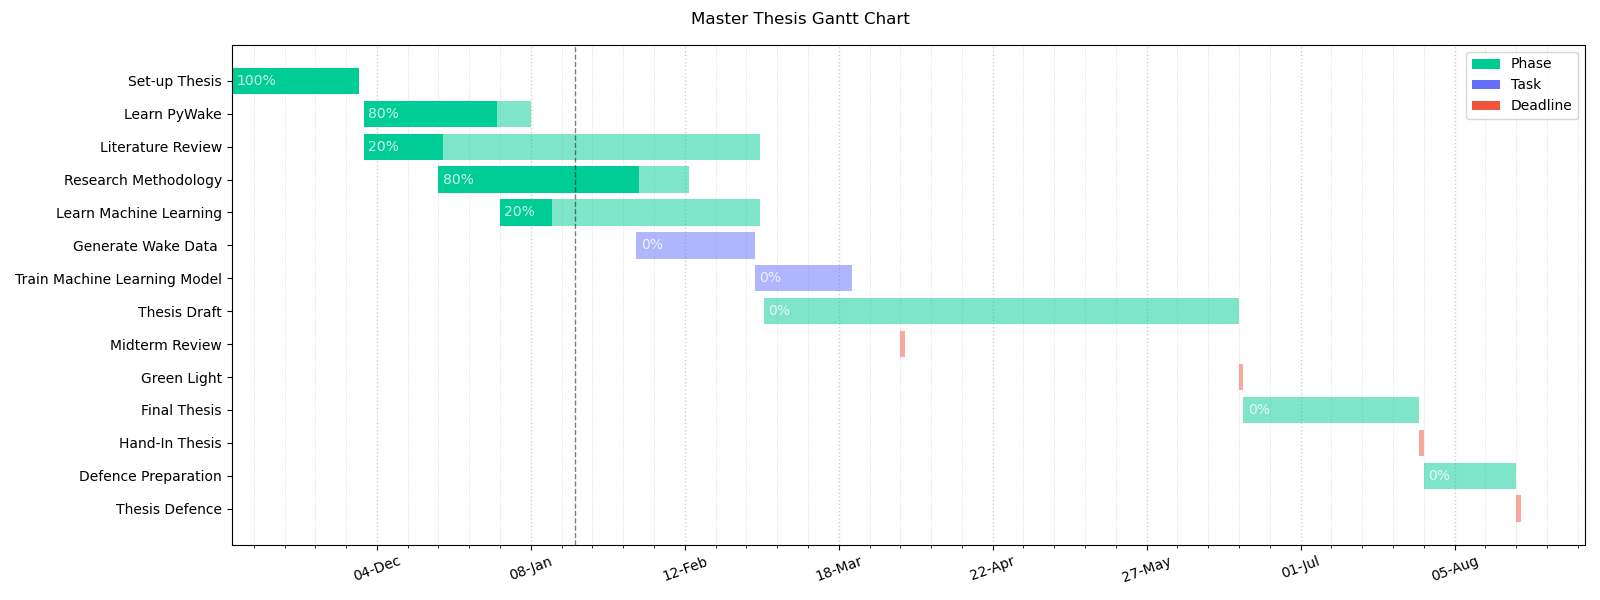
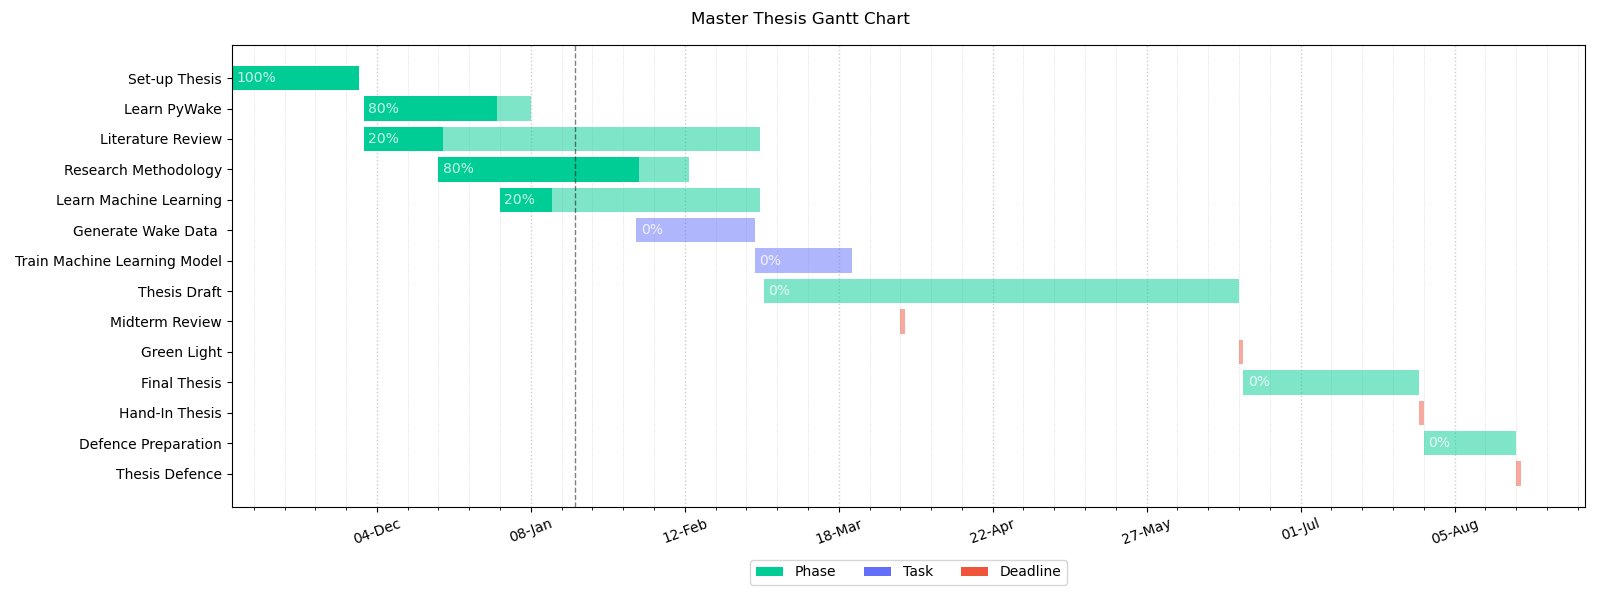
small fixes

diff --git a/gantt_chart.py b/gantt_chart.py
@@ -75,7 +75,7 @@ def gantt_chart(file_path=os.path.join(ROOT_DIR, './gantt.csv'),
     if legend_pos == "in plot":
         plt.legend(handles=legend_elements)
     elif legend_pos == "under plot":
-        plt.legend(handles=legend_elements, loc='upper center', bbox_to_anchor=(0.5, -0.075), ncol=99)
+        plt.legend(handles=legend_elements, loc='upper center', bbox_to_anchor=(0.5, -0.1), ncol=99)
     
     plt.suptitle("Master Thesis Gantt Chart")
     plt.tight_layout()

diff --git a/README.md b/README.md
@@ -6,7 +6,7 @@ This Python script generates a Gantt Chart based on input data provided in a CSV
 
 ## Run the script:
 
- ```bash
+    ```bash
     python gantt_chart.py --file_path path/to/your/data.csv
     ```
 
@@ -14,8 +14,9 @@ This Python script generates a Gantt Chart based on input data provided in a CSV
 
 Ensure your CSV file follows the format below:
 
-```csv
-Task,Category,Start,End,Completion
-Task1, Phase,Phase,01-11-2023,30-11-2023,1
-Task2, Task,Phase,01-12-2023,29-02-2024,0.2
-Task3, Deadline,Phase,01-12-2023,08-01-2024,0.8```
+    ```csv
+    Task,Category,Start,End,Completion
+    Task1,Phase,Phase,01-11-2023,30-11-2023,1
+    Task2,Task,Phase,01-12-2023,29-02-2024,0.2
+    Task3,Deadline,Phase,01-12-2023,08-01-2024,0.8
+    ```
